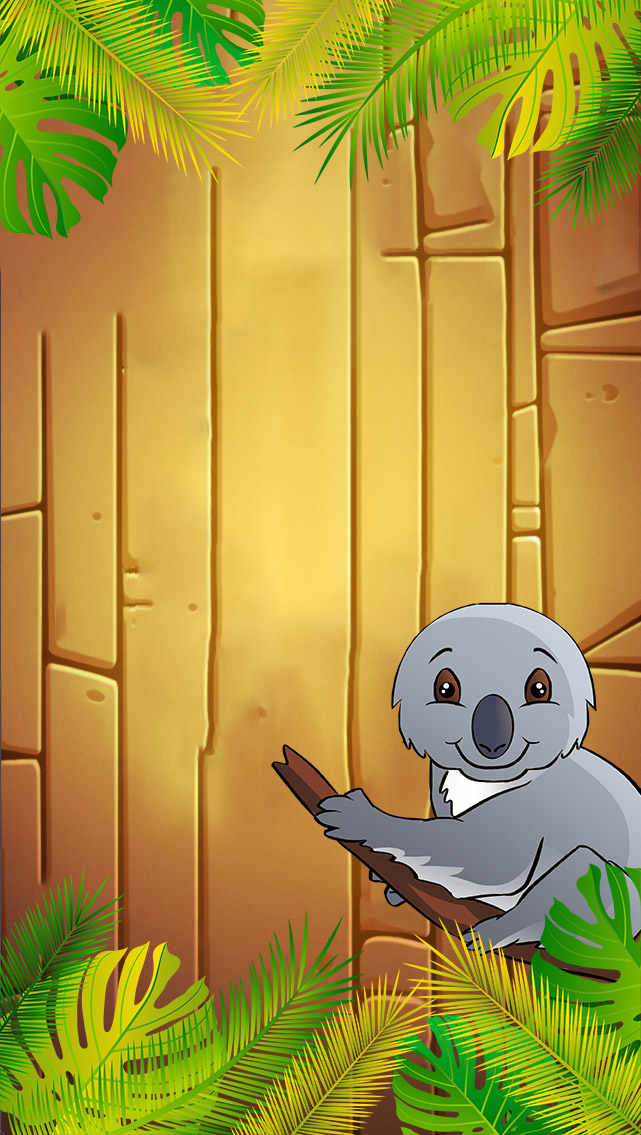
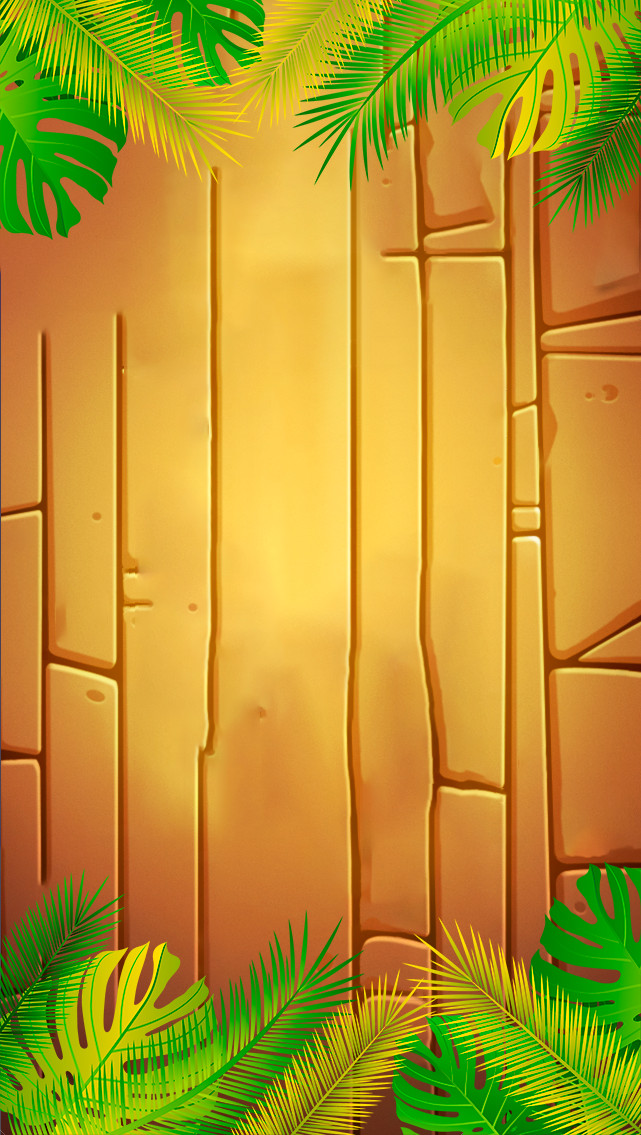
add common_bg

diff --git a/js/gameScene.js b/js/gameScene.js
@@ -23,7 +23,7 @@ export default class gameScene extends Phaser.Scene
         this.step = width / this.MaxCol;
         this.scale = width / this.game.config.widthOrigin;
         
-        this.ofsetY  = height - 50 - width / this.MaxCol * this.MaxRow; 
+        this.ofsetY  = height - this.baseSize * this.scale / 2 - width / this.MaxCol * this.MaxRow; 
         this.ofsetX = 10 + this.baseSize * this.scale / 2;
         
         
@@ -70,7 +70,7 @@ export default class gameScene extends Phaser.Scene
         this.animsBlock = [this.diamond, this.prism, this.ruby, this.square]; 
 
         this.bg = this.add.image( Math.floor(this.game.scale.baseSize.width / 2), Math.floor(this.game.scale.baseSize.height / 2) ,'background').setScale(this.scale);
-        this.board = this.add.image(0, Math.floor(this.ofsetY - 40), 'board').setScale(this.scale * 0.96);
+        this.board = this.add.image(0, Math.floor(this.ofsetY - 0.75 * this.baseSize * this.scale), 'board').setScale(this.scale * 0.96);
         this.board.setOrigin(0);
         this.board.setAlpha(0.5);
         for (let curRow = 0; curRow < this.MaxRow; curRow ++) {

diff --git a/js/preLoader.js b/js/preLoader.js
@@ -7,7 +7,7 @@ export default class preLoader extends Phaser.Scene
     preload () {
         this.scale = Math.floor ((1000 * this.game.canvas.width) / this.game.config.widthOrigin) / 1000;
         
-        this.load.image('background', './img/background.jpg');
+        this.load.image('bg_preloader', './img/bg_preloader.jpg');
         this.load.atlas('earRight', './img/earRight.png', './img/earRight.json');
         this.load.atlas('earLeft', './img/earLeft.png', './img/earLeft.json');
         this.load.image('play', './img/play.png');
@@ -20,7 +20,7 @@ export default class preLoader extends Phaser.Scene
         this.deltaTime = 0;
         this.gameScore = 0;
 
-        this.bg = this.add.image(this.game.scale.baseSize.width / 2, Math.floor(this.game.scale.baseSize.height / 2) ,'background').setScale(this.scale,this.scale);
+        this.bg = this.add.image(this.game.scale.baseSize.width / 2, Math.floor(this.game.scale.baseSize.height / 2) ,'bg_preloader').setScale(this.scale,this.scale);
         this.bg.isHide = false;
         this.bg.dalpha = -0.001;
 

diff --git a/css/style.css b/css/style.css
@@ -15,6 +15,7 @@
     --gpRed: #d90e16;
 }
 .wrap {
+    display: flex;
     height: 100vh;
     width: 100%;
     overflow: hidden;
